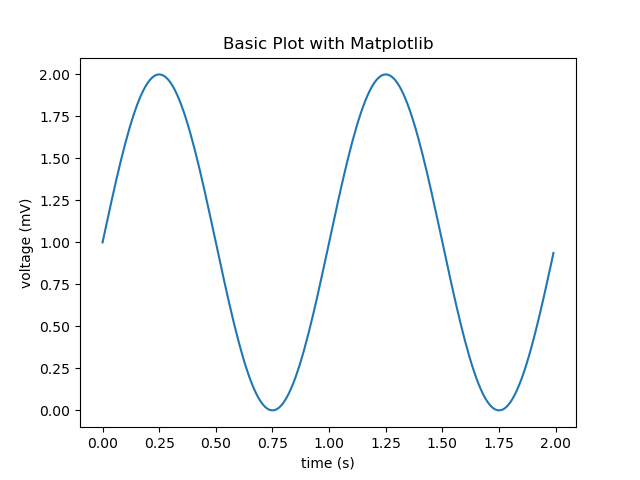
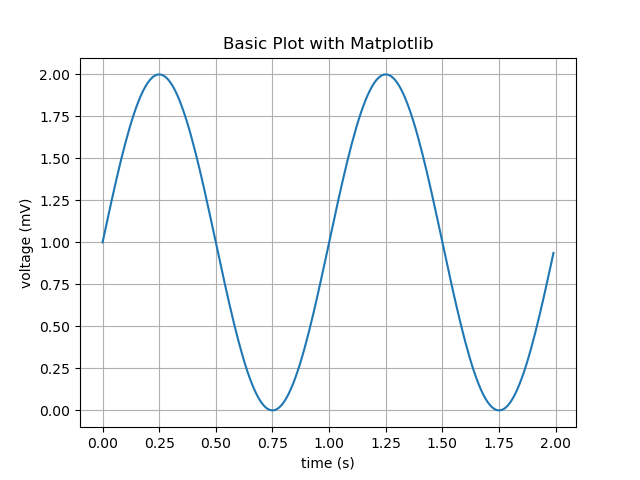
First attempt to plot with Python

diff --git a/codes/PyPlots.py b/codes/PyPlots.py
@@ -11,7 +11,7 @@ ax.plot(t,s)
 
 ax.set(xlabel="time (s)", ylabel="voltage (mV)",
        title="Basic Plot with Matplotlib")
-ax.grid
+ax.grid()
 
 fig.savefig("test.png")
 plt.show()
